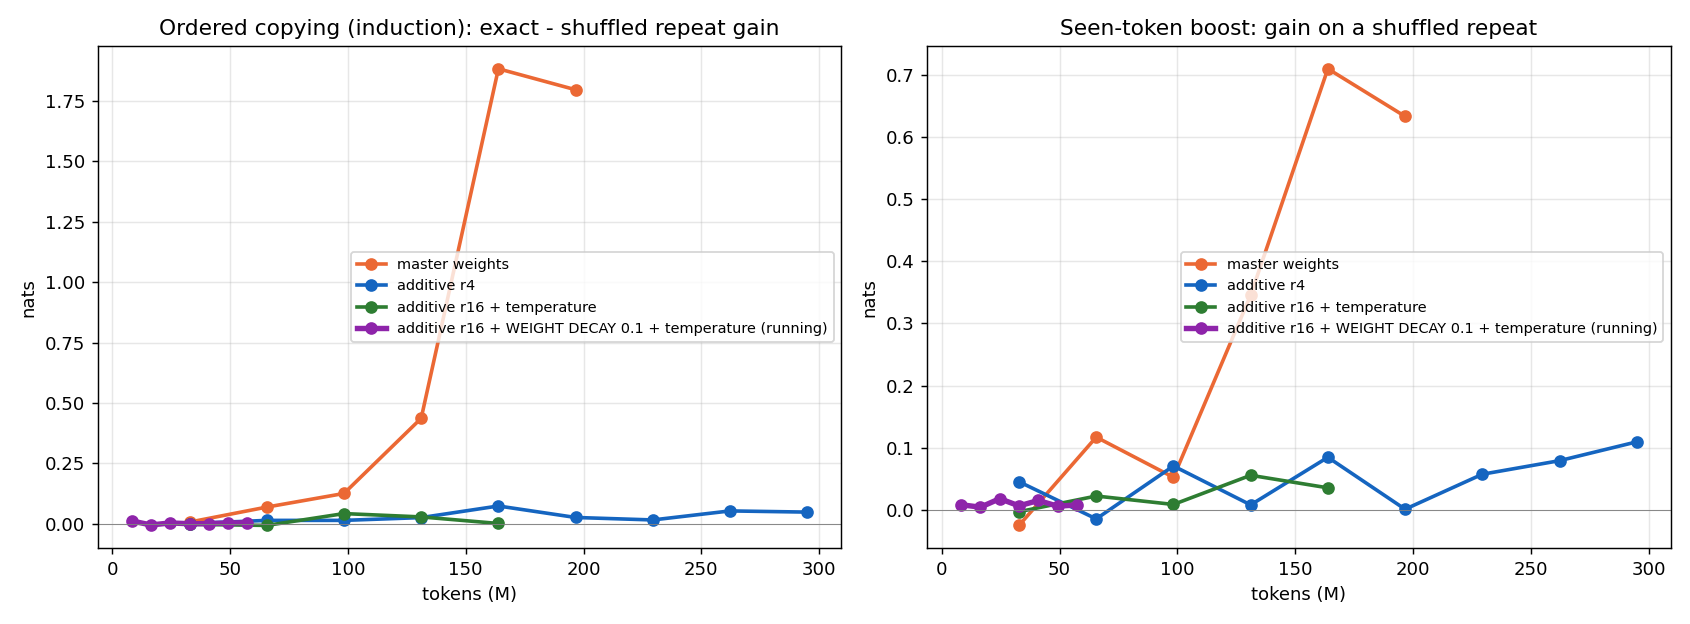
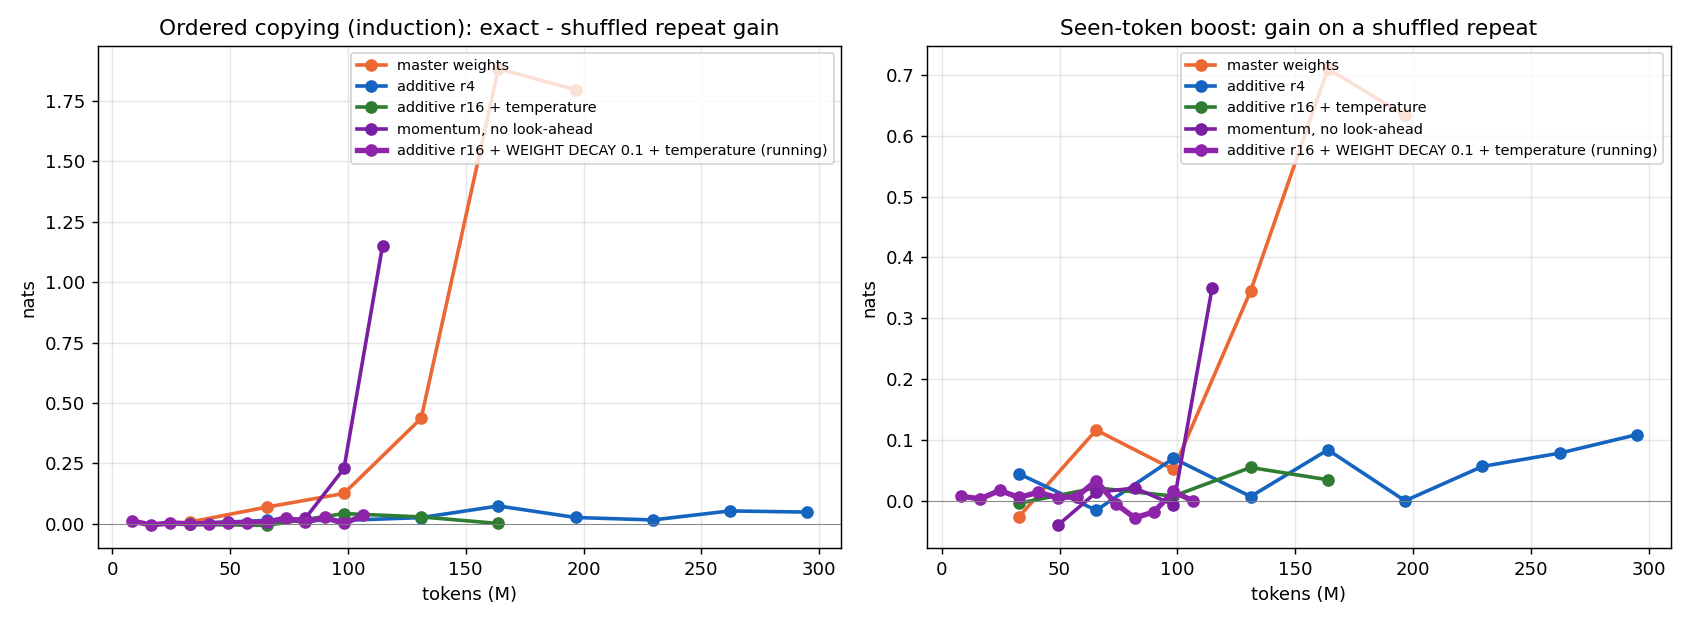
Induction tracker: lab no-look-ahead run

diff --git a/scripts/plots/plot_induction_text.py b/scripts/plots/plot_induction_text.py
@@ -5,7 +5,7 @@ import json, matplotlib; matplotlib.use("Agg")
 import matplotlib.pyplot as plt
 
 STY = {"curve_master": ("master weights", "#eb6834"), "magadd_full": ("additive r4", "#1565c0"),
-       "magadd16_qk": ("additive r16 + temperature", "#2e7d32"),
+       "magadd16_qk": ("additive r16 + temperature", "#2e7d32"), "nola_lab": ("momentum, no look-ahead", "#7b1fa2"),
        "magadd16_wd_qk": ("additive r16 + WEIGHT DECAY 0.1 + temperature (running)", "#8e24aa")}
 d = json.load(open("checkpoints/induction_track.json"))
 fig, (a, b) = plt.subplots(1, 2, figsize=(13, 4.8))

diff --git a/scripts/analysis/induction_track.py b/scripts/analysis/induction_track.py
@@ -8,7 +8,7 @@ import os, glob, re, json, torch, torch.nn.functional as F
 
 RUNS = {  # run dir: (loader kind, adapter kind for the loader or "")
     "curve_master": ("master", ""), "magadd16_qk": ("kernel", "add"), "magadd16_wd_qk": ("kernel", "add"),
-    "magadd_full": ("kernel", "add"),
+    "magadd_full": ("kernel", "add"), "nola_lab": ("kernel", ""),
 }
 CACHE = "checkpoints/induction_track.json"
 
